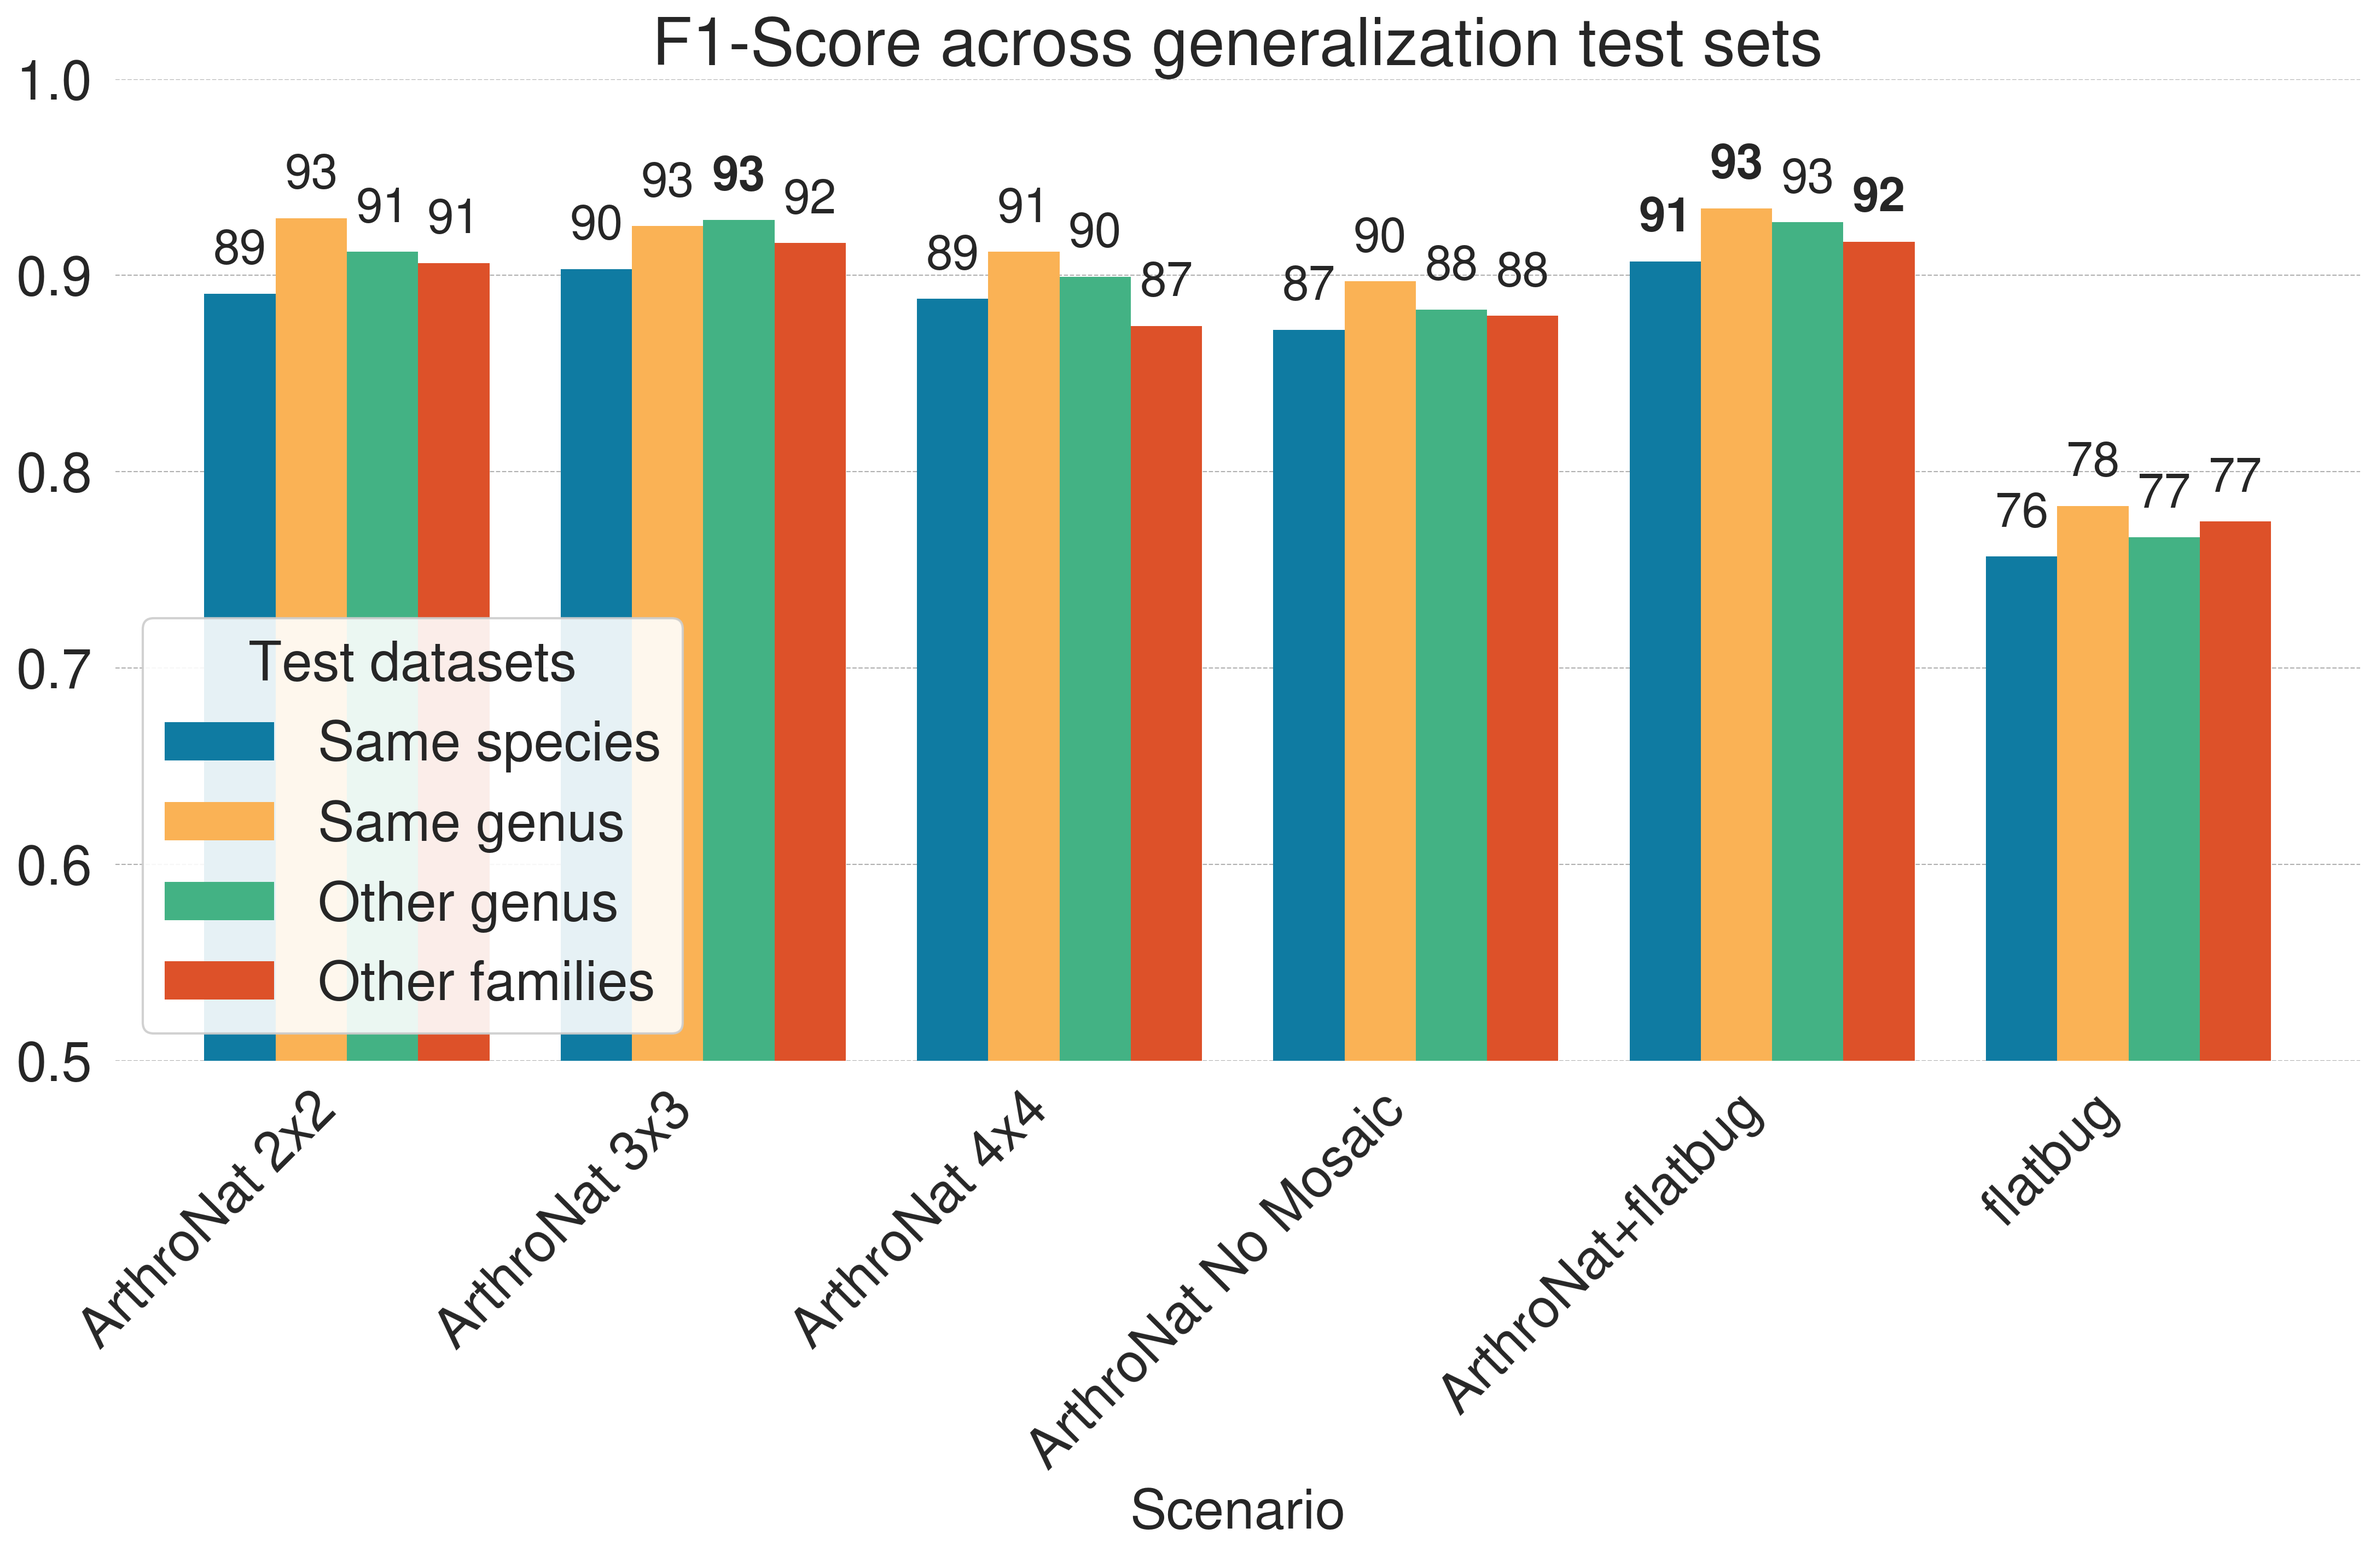
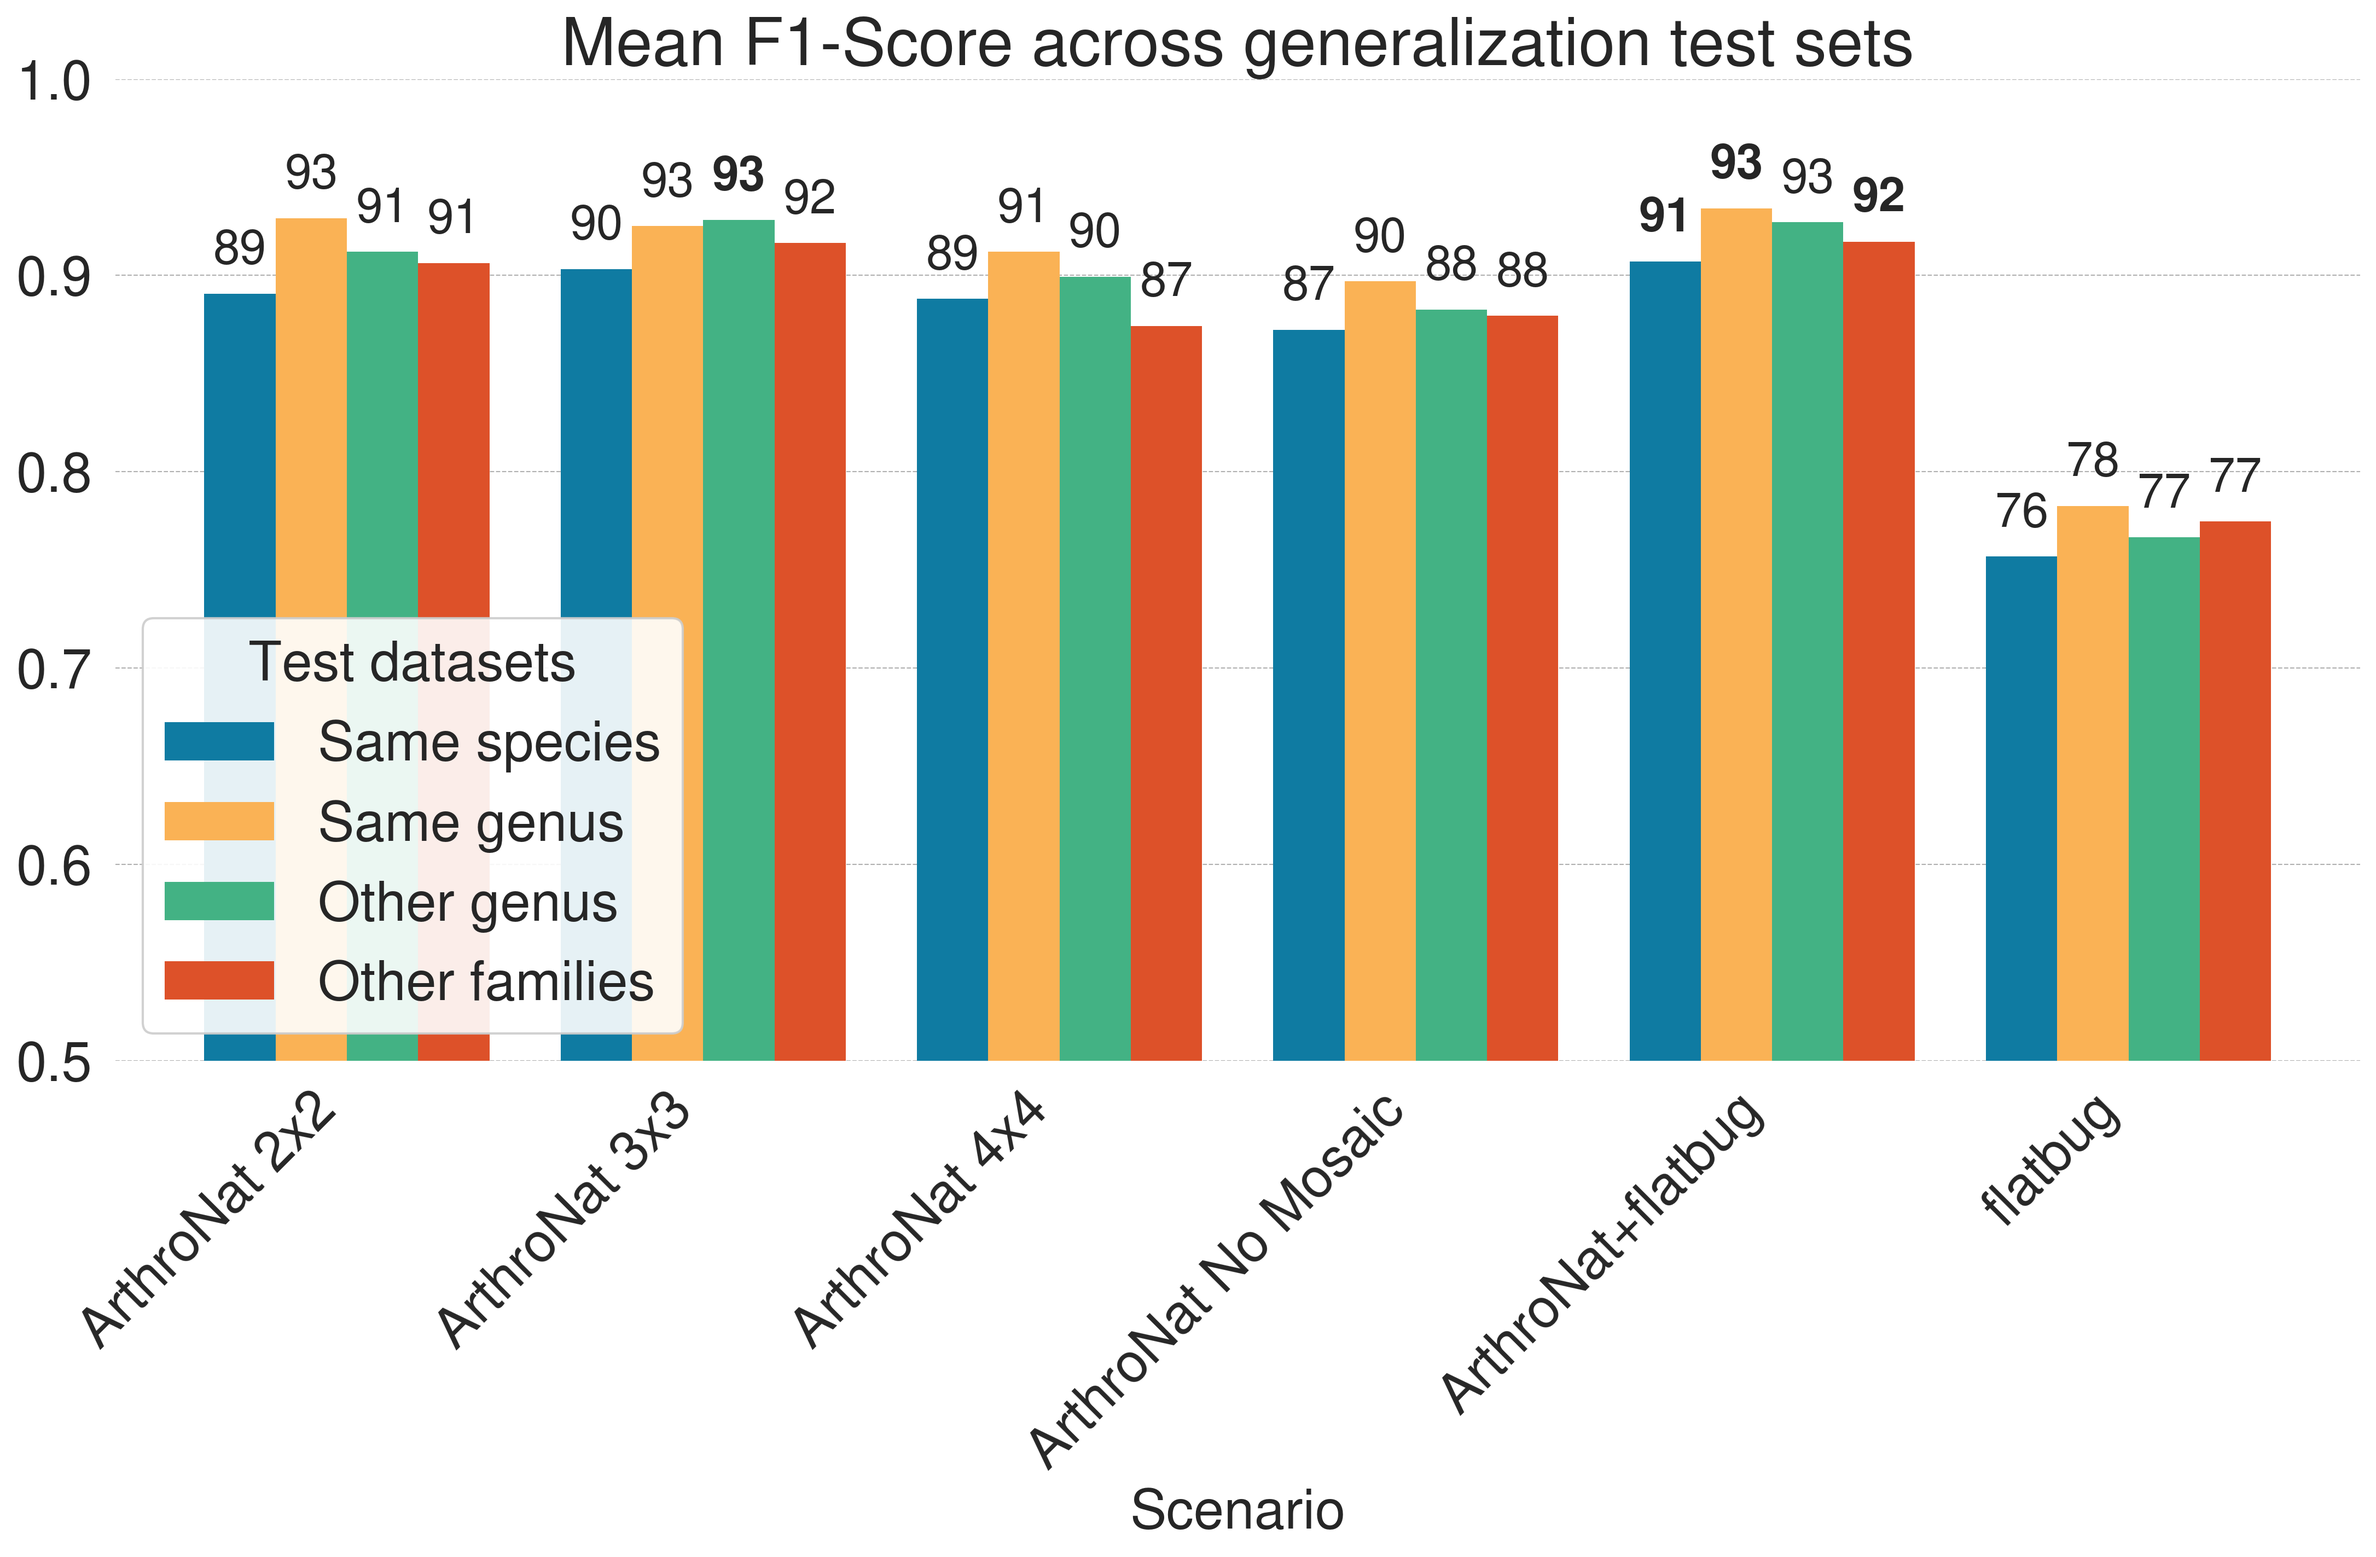
Minor plot changes

Changed region(s): [[0.2487, 0.0, 0.8082, 0.0618]]

diff --git a/validation/generalization/plot_generalization_perfs.py b/validation/generalization/plot_generalization_perfs.py
@@ -111,9 +111,9 @@ if __name__ == "__main__":
     
     # Define metrics with their CSV column names and display names
     metrics = {
-        'f1': {'csv_name': 'avg_F1', 'display_name': 'F1-Score'},
-        'precision': {'csv_name': 'avg_precision', 'display_name': 'Precision'},
-        'recall': {'csv_name': 'avg_recall', 'display_name': 'Recall'},
+        'f1': {'csv_name': 'avg_F1', 'display_name': 'Mean F1-Score'},
+        'precision': {'csv_name': 'avg_precision', 'display_name': ' Mean Precision'},
+        'recall': {'csv_name': 'avg_recall', 'display_name': 'Mean Recall'},
         'iou': {'csv_name': 'avg_mean_IoU', 'display_name': 'Mean IoU'}
     }
     
